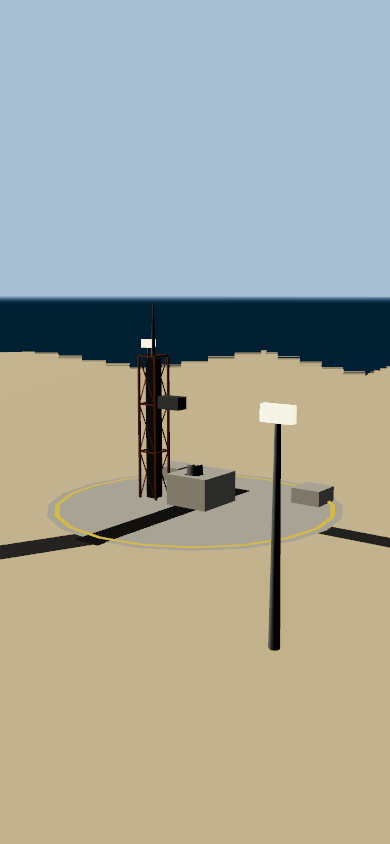
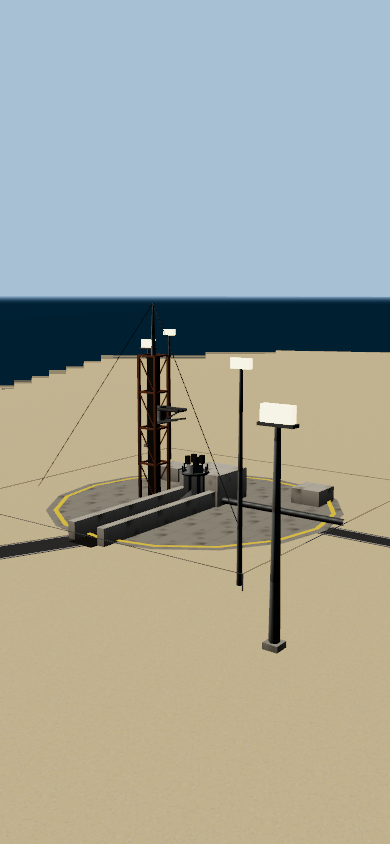
art-sites-1: detail pass (atoll)
Truss lattice towers with X-bracing and service decks, truss swing arms with hinge drums, lightning masts with catenary wires, flame trench walls and wedge deflector, deluge header ring and feed main; assembly buildings with ribbing and stacked door panels; tank farms with sphere legs and girth rings, pipe racks and spill bunds; roads with edge lines, dashed centre lines and light poles; perimeter fences; chopstick catch arms on the catch towers. PBR maps (concrete, steel grime, rust) plus baked vertex AO. Phone mid stays <= 8k tris / 40 meshes.

diff --git a/gfx/sites/kit.js b/gfx/sites/kit.js
@@ -4,29 +4,59 @@
 //      buildSiteLOD(S, { phone }) -> THREE.LOD (near = hi, or mid on phones; mid; lo)
 //      placeSite(obj, S) applies the site's body-frame matrix;  dispose / release free geometry (materials are shared).
 import * as THREE from 'three/webgpu';
-import { mergeGeometries, weakDisposeListeners, dispose, release } from '../vehicles/kit.js?v=art1';
+import { weakDisposeListeners, dispose, release } from '../vehicles/kit.js?v=art1';
 import { siteMatrix, localOffset, localBasis, BODY_R } from './geo.js?v=art1';
 export { dispose, release, BODY_R };
 export const LOD_DIST = { mid: 1500, lo: 6000 }; // metres from the camera
-const MATS = new Map(), S = THREE.MeshStandardMaterial;
-const MDEF = { concrete: [0xa8a49b, 0.95, 0], apron: [0x8e8b85, 0.9, 0], asphalt: [0x2c2d30, 0.92, 0], mark: [0xe8c22a, 0.6, 0], white: [0xf0efeb, 0.85, 0],
-  clad: [0xd9dadc, 0.7, 0.15], band: [0x5a6f86, 0.6, 0.2], door: [0x3a3d42, 0.7, 0.4], tower: [0x7d4a2e, 0.65, 0.5], steel: [0x8c9198, 0.45, 0.85],
-  tank: [0xeceae4, 0.4, 0.3], pipe: [0xb9bcc0, 0.4, 0.8], dark: [0x1e1f22, 0.7, 0.3], deck: [0x3b3e42, 0.85, 0.5], hull: [0x23272d, 0.6, 0.5],
-  lamp: [0xfff2c8, 0.4, 0, 0xffe7a0], ground: [0x6f7452, 1, 0], sand: [0xc9b68e, 1, 0], sea: [0x15394f, 0.2, 0], regolith: [0x8d8a84, 1, 0],
-  redsoil: [0x8f5a42, 1, 0], gold: [0xc9a043, 0.35, 1], solar: [0x1d2a4a, 0.3, 0.6], hab: [0xdedbd2, 0.6, 0.2], glass: [0x0c1218, 0.1, 0.3], green: [0x4d5a3a, 1, 0] };
-export function smat(k) { if (MATS.has(k)) return MATS.get(k); const d = MDEF[k] || [0xff00ff, 1, 0];
-  const m = new S({ color: d[0], roughness: d[1], metalness: d[2], ...(d[3] ? { emissive: d[3], emissiveIntensity: 2.2 } : {}) });
+const MATS = new Map(), TEX = new Map(), S = THREE.MeshStandardMaterial;
+// procedural PBR detail maps (canvas, cached, tiled in world space by SK.add's box-projected UVs, 8 m per tile)
+function rnd(seed) { let x = seed >>> 0 || 1; return () => ((x = (x * 1664525 + 1013904223) >>> 0) / 4294967296); }
+function canvasTex(key, draw, size = 256) { if (TEX.has(key)) return TEX.get(key); if (typeof document === 'undefined' && typeof OffscreenCanvas === 'undefined') return null;
+  const c = typeof OffscreenCanvas !== 'undefined' ? new OffscreenCanvas(size, size) : Object.assign(document.createElement('canvas'), { width: size, height: size }), g = c.getContext('2d'); draw(g, size, rnd(key.length * 977 + key.charCodeAt(0)));
+  const t = new THREE.CanvasTexture(c); t.wrapS = t.wrapT = THREE.RepeatWrapping; t.colorSpace = key.endsWith(':r') ? THREE.NoColorSpace : THREE.SRGBColorSpace; t.anisotropy = 4; t.userData.cached = true; TEX.set(key, t); return t; }
+const speckle = (g, n, r, a, lo, hi) => { for (let i = 0; i < 2600; i++) { const v = lo + (hi - lo) * a(); g.fillStyle = `rgba(${v},${v},${v},${0.08 + 0.12 * a()})`; g.fillRect(a() * n, a() * n, 1 + r * a(), 1 + r * a()); } };
+const TEXDEF = {
+  concrete: (g, n, a) => { g.fillStyle = '#b4b0a7'; g.fillRect(0, 0, n, n); speckle(g, n, 3, a, 90, 230); g.strokeStyle = 'rgba(60,58,54,0.55)'; g.lineWidth = 1.5; g.strokeRect(0, 0, n, n); g.beginPath(); g.moveTo(n / 2, 0); g.lineTo(n / 2, n); g.stroke(); // slab joints
+    for (let i = 0; i < 7; i++) { const x = a() * n, y = a() * n, r = 10 + 40 * a(), gr = g.createRadialGradient(x, y, 0, x, y, r); gr.addColorStop(0, 'rgba(70,64,55,0.28)'); gr.addColorStop(1, 'rgba(70,64,55,0)'); g.fillStyle = gr; g.fillRect(0, 0, n, n); } }, // stains
+  steel: (g, n, a) => { g.fillStyle = '#9aa0a7'; g.fillRect(0, 0, n, n); for (let y = 0; y < n; y++) { g.fillStyle = `rgba(255,255,255,${0.04 * a()})`; g.fillRect(0, y, n, 1); } speckle(g, n, 2, a, 60, 200);
+    const gr = g.createLinearGradient(0, n, 0, 0); gr.addColorStop(0, 'rgba(70,55,40,0.35)'); gr.addColorStop(0.35, 'rgba(70,55,40,0)'); g.fillStyle = gr; g.fillRect(0, 0, n, n); }, // grime from below
+  rust: (g, n, a) => { g.fillStyle = '#86502f'; g.fillRect(0, 0, n, n); speckle(g, n, 4, a, 40, 170); for (let i = 0; i < 40; i++) { g.fillStyle = `rgba(${120 + 60 * a()},${60 + 30 * a()},30,0.25)`; g.fillRect(a() * n, a() * n, 2 + 4 * a(), 8 + 40 * a()); } }, // rust streaks
+  clad: (g, n, a) => { g.fillStyle = '#d6d7d9'; g.fillRect(0, 0, n, n); for (let x = 0; x < n; x += 8) { g.fillStyle = 'rgba(0,0,0,0.10)'; g.fillRect(x, 0, 2, n); } speckle(g, n, 2, a, 120, 220);
+    const gr = g.createLinearGradient(0, n, 0, n * 0.6); gr.addColorStop(0, 'rgba(80,70,60,0.35)'); gr.addColorStop(1, 'rgba(80,70,60,0)'); g.fillStyle = gr; g.fillRect(0, 0, n, n); }, // ribbed siding + splash grime
+  asphalt: (g, n, a) => { g.fillStyle = '#313236'; g.fillRect(0, 0, n, n); speckle(g, n, 2, a, 20, 110); },
+  tank: (g, n, a) => { g.fillStyle = '#eceae4'; g.fillRect(0, 0, n, n); speckle(g, n, 2, a, 170, 255); for (let i = 0; i < 10; i++) { g.fillStyle = 'rgba(110,95,80,0.12)'; g.fillRect(a() * n, a() * n * 0.4 + n * 0.6, 3 + 6 * a(), 20 + 60 * a()); } },
+  ground: (g, n, a) => { g.fillStyle = '#6f7452'; g.fillRect(0, 0, n, n); speckle(g, n, 6, a, 50, 140); },
+  sand: (g, n, a) => { g.fillStyle = '#c9b68e'; g.fillRect(0, 0, n, n); speckle(g, n, 5, a, 120, 230); },
+  regolith: (g, n, a) => { g.fillStyle = '#8d8a84'; g.fillRect(0, 0, n, n); speckle(g, n, 5, a, 50, 190); for (let i = 0; i < 12; i++) { g.strokeStyle = 'rgba(40,40,40,0.25)'; g.beginPath(); g.arc(a() * n, a() * n, 3 + 14 * a(), 0, 7); g.stroke(); } }, // small craters
+  redsoil: (g, n, a) => { g.fillStyle = '#8f5a42'; g.fillRect(0, 0, n, n); speckle(g, n, 5, a, 50, 170); },
+};
+const MDEF = { concrete: [0xffffff, 0.95, 0, 'concrete'], apron: [0xc9c6c0, 0.9, 0, 'concrete'], asphalt: [0xffffff, 0.92, 0, 'asphalt'], mark: [0xe8c22a, 0.6, 0], white: [0xf2f1ed, 0.85, 0],
+  clad: [0xffffff, 0.7, 0.15, 'clad'], band: [0x5a6f86, 0.6, 0.2], door: [0xa9adb2, 0.55, 0.6, 'clad'], tower: [0xffffff, 0.75, 0.45, 'rust'], steel: [0xffffff, 0.45, 0.8, 'steel'],
+  tank: [0xffffff, 0.4, 0.3, 'tank'], pipe: [0xc4c7ca, 0.4, 0.8, 'steel'], dark: [0x2a2b2e, 0.85, 0.2, 'concrete'], deck: [0x4a4d52, 0.85, 0.5, 'steel'], hull: [0x2e333a, 0.6, 0.5, 'steel'],
+  lamp: [0xfff2c8, 0.4, 0, null, 0xffe7a0], ground: [0xffffff, 1, 0, 'ground'], sand: [0xffffff, 1, 0, 'sand'], sea: [0x15394f, 0.2, 0], regolith: [0xffffff, 1, 0, 'regolith'],
+  redsoil: [0xffffff, 1, 0, 'redsoil'], gold: [0xc9a043, 0.35, 1], solar: [0x1d2a4a, 0.3, 0.6], hab: [0xdedbd2, 0.6, 0.2, 'tank'], glass: [0x0c1218, 0.1, 0.3], green: [0x4d5a3a, 1, 0],
+  fence: [0x9da3a8, 0.5, 0.7], red: [0xb3241c, 0.5, 0.2], water: [0x2f6f8f, 0.15, 0] };
+export function smat(k) { if (MATS.has(k)) return MATS.get(k); const d = MDEF[k] || [0xff00ff, 1, 0], map = d[3] ? canvasTex(d[3], TEXDEF[d[3]]) : null;
+  const m = new S({ color: d[0], roughness: d[1], metalness: d[2], vertexColors: true, ...(map ? { map } : {}), ...(d[4] ? { emissive: d[4], emissiveIntensity: 2.2 } : {}) });
   if (k === 'mark') Object.assign(m, { polygonOffset: true, polygonOffsetFactor: -2, polygonOffsetUnits: -2 });
   m.name = 'site:' + k; m.userData.cached = true; weakDisposeListeners(m); MATS.set(k, m); return m; }
-export const SEG = { hi: 20, mid: 10, lo: 6 };
+// merge non-indexed geometries with position/normal/uv/color
+function mergeGeometries(gs) { const out = new THREE.BufferGeometry(); for (const [a, n] of [['position', 3], ['normal', 3], ['uv', 2], ['color', 3]]) { let len = 0; for (const g of gs) len += g.attributes[a].array.length;
+  const arr = new Float32Array(len); let o = 0; for (const g of gs) { arr.set(g.attributes[a].array, o); o += g.attributes[a].array.length; } out.setAttribute(a, new THREE.BufferAttribute(arr, n)); } return out; }
+export const SEG = { hi: 20, mid: 8, lo: 6 };
 const _q = new THREE.Quaternion(), _e = new THREE.Euler(), _v = new THREE.Vector3(), _s = new THREE.Vector3(), Y = new THREE.Vector3(0, 1, 0);
 const M = (p = [0, 0, 0], ry = 0, s = [1, 1, 1]) => { _e.set(0, ry, 0); return new THREE.Matrix4().compose(_v.set(...p), _q.setFromEuler(_e), _s.set(...s)); };
 // merge buffer: per material key; `tf` stack of placement matrices
-export class SK { constructor(detail) { this.detail = detail; this.seg = SEG[detail]; this.hi = detail === 'hi'; this.lo = detail === 'lo'; this.b = new Map(); this.T = [new THREE.Matrix4()]; }
+export class SK { constructor(detail) { this.detail = detail; this.seg = SEG[detail]; this.hi = detail === 'hi'; this.lo = detail === 'lo'; this.b = new Map(); this.T = [new THREE.Matrix4()]; this.base = 0; this.noAO = new Set(['mark', 'lamp', 'sea', 'ground', 'sand', 'regolith', 'redsoil', 'asphalt', 'water']); }
   push(m) { this.T.push(this.T.at(-1).clone().multiply(m)); return this; } pop() { this.T.pop(); return this; }
-  add(geo, k, m) { const g = geo.index ? geo.toNonIndexed() : geo; if (g !== geo) geo.dispose(); for (const a of Object.keys(g.attributes)) if (!['position', 'normal', 'uv'].includes(a)) g.deleteAttribute(a);
-    if (!g.attributes.uv) g.setAttribute('uv', new THREE.BufferAttribute(new Float32Array(g.attributes.position.count * 2), 2));
-    g.applyMatrix4(m ? this.T.at(-1).clone().multiply(m) : this.T.at(-1)); (this.b.get(k) || this.b.set(k, []).get(k)).push(g); return this; }
+  add(geo, k, m) { const g = geo.index ? geo.toNonIndexed() : geo; if (g !== geo) geo.dispose(); for (const a of Object.keys(g.attributes)) if (!['position', 'normal'].includes(a)) g.deleteAttribute(a);
+    g.applyMatrix4(m ? this.T.at(-1).clone().multiply(m) : this.T.at(-1)); const P = g.attributes.position.array, N = g.attributes.normal.array, c = P.length / 3, uv = new Float32Array(c * 2), col = new Float32Array(c * 3), T = 8;
+    for (let i = 0; i < c; i++) { const x = P[i * 3], y = P[i * 3 + 1], z = P[i * 3 + 2], nx = Math.abs(N[i * 3]), ny = N[i * 3 + 1], nz = Math.abs(N[i * 3 + 2]);
+      if (Math.abs(ny) >= nx && Math.abs(ny) >= nz) { uv[i * 2] = x / T; uv[i * 2 + 1] = z / T; } else if (nx >= nz) { uv[i * 2] = z / T; uv[i * 2 + 1] = y / T; } else { uv[i * 2] = x / T; uv[i * 2 + 1] = y / T; }
+      // baked AO: contact shadow near the ground (y local to the placed item), underside faces darker, slight sky term on tops
+      const h = y - this.base, ao = Math.min(1, (0.5 + 0.5 * Math.min(1, Math.max(0, h) / 4)) * (ny < -0.5 ? 0.6 : 1) * (ny > 0.5 ? 1.05 : 0.92));
+      col[i * 3] = col[i * 3 + 1] = col[i * 3 + 2] = this.noAO.has(k) ? 1 : ao; }
+    g.setAttribute('uv', new THREE.BufferAttribute(uv, 2)); g.setAttribute('color', new THREE.BufferAttribute(col, 3)); (this.b.get(k) || this.b.set(k, []).get(k)).push(g); return this; }
   box(k, w, h, d, p = [0, 0, 0], ry = 0) { return this.add(new THREE.BoxGeometry(w, h, d), k, M([p[0], p[1] + h / 2, p[2]], ry)); } // p = bottom centre
   cyl(k, r0, r1, h, p = [0, 0, 0], seg = this.seg, open = false) { return this.add(new THREE.CylinderGeometry(r1, r0, h, Math.max(3, seg), 1, open), k, M([p[0], p[1] + h / 2, p[2]])); }
   sph(k, r, p, seg = this.seg) { return this.add(new THREE.SphereGeometry(r, Math.max(4, seg), Math.max(3, seg >> 1)), k, M(p)); }
@@ -41,70 +71,113 @@ export class SK { constructor(detail) { this.detail = detail; this.seg = SEG[det
     grp.userData.tris = tris; return grp; } }
 
 // ---------- parts (all take the kit, a layout item o, placed at o.at = [x, z] with o.rot radians) ----------
-// lattice tower: square w x w, height h; hi = full lattice, mid = columns + bays, lo = solid box
+// truss lattice tower: square w x w, height h. hi = X-braced bays on every face (4 m), mid = single diagonals (8 m) + core, lo = solid box
 export function lattice(K, w, h, k = 'tower', p = [0, 0, 0]) { const [x, y, z] = p, c = w / 2;
   if (K.lo) return K.box(k, w, h, w, p);
-  const col = Math.max(0.4, w * 0.07), bay = K.hi ? 5 : 9, n = Math.max(1, Math.round(h / bay)), dy = h / n, P = [[-c, -c], [c, -c], [c, c], [-c, c]];
+  const col = Math.max(0.5, w * 0.07), bay = K.hi ? 4 : Math.max(8, h / 12), n = Math.max(1, Math.round(h / bay)), dy = h / n, P = [[-c, -c], [c, -c], [c, c], [-c, c]];
   for (const [a, b] of P) K.box(k, col, h, col, [x + a, y, z + b]);
   for (let i = 1; i <= n; i++) { const yy = y + i * dy; for (let j = 0; j < 4; j++) { const [a0, b0] = P[j], [a1, b1] = P[(j + 1) % 4];
-    K.beam(k, [x + a0, yy, z + b0], [x + a1, yy, z + b1], col * 0.7); K.beam(k, [x + a0, yy - dy, z + b0], [x + a1, yy, z + b1], col * 0.45); } }
-  if (!K.hi) K.box('dark', w * 0.55, h * 0.98, w * 0.55, p); // elevator core reads as a solid spine at mid
+    K.beam(k, [x + a0, yy, z + b0], [x + a1, yy, z + b1], col * 0.7); if (K.hi || j % 2 === 0) K.beam(k, [x + a0, yy - dy, z + b0], [x + a1, yy, z + b1], col * 0.4);
+    if (K.hi) K.beam(k, [x + a1, yy - dy, z + b1], [x + a0, yy, z + b0], col * 0.4); }
+    if (K.hi && i % 4 === 0) K.box('steel', w * 1.15, 0.4, w * 1.15, [x, yy, z]); } // service decks
+  K.box('dark', w * 0.45, h * 0.99, w * 0.45, p); // elevator / stair core
   return K; }
+// truss arm from a tower face along +x: two chords + zig-zag web, hinge drum at the root
+function trussArm(K, x0, y, z, len, d = 2.4, k = 'steel', dir = 1) { const t = 0.35;
+  if (K.lo) return K.box(k, len, d, d, [x0 + dir * len / 2, y - d / 2, z]);
+  for (const zz of [-d / 2, d / 2]) { K.beam(k, [x0, y, z + zz], [x0 + dir * len, y, z + zz], t); K.beam(k, [x0, y - d, z + zz], [x0 + dir * len * 0.95, y - d * 0.7, z + zz], t); }
+  const n = K.hi ? Math.max(2, Math.round(len / 2.5)) : Math.max(1, Math.round(len / 5)); for (let i = 0; i < n; i++) { const a = x0 + dir * len * i / n, b = x0 + dir * len * (i + 1) / n;
+    K.beam(k, [a, y - d * (1 - 0.3 * i / n), z], [b, y, z], t * 0.8); }
+  K.box('deck', len, 0.25, d, [x0 + dir * len / 2, y - d * 0.15, z]); K.cyl('steel', 0.9, 0.9, d + 0.8, [x0, y - d - 0.4, z], 8); return K; }
+function catenary(K, x, top, z, span) { if (K.lo) return; for (const s of [-1, 1]) K.beam('steel', [x, top, z], [x + s * span, 0, z + span * 0.3], 0.12); } // lightning-mast catenary wires
+function fence(K, pts, h = 2.4) { if (K.lo) return; for (let i = 1; i < pts.length; i++) { const [x0, z0] = pts[i - 1], [x1, z1] = pts[i], L = Math.hypot(x1 - x0, z1 - z0), n = Math.max(1, Math.round(L / (K.hi ? 12 : 48)));
+  for (let j = 0; j <= n; j++) K.box('fence', 0.15, h, 0.15, [x0 + (x1 - x0) * j / n, 0, z0 + (z1 - z0) * j / n]);
+  for (const hy of K.hi ? [0.3, h * 0.55, h] : [h]) K.beam('fence', [x0, hy, z0], [x1, hy, z1], 0.08); } }
+function rackPipe(K, x0, x1, z, y = 4, n = 3) { // pipe rack: portal frames every 10-20 m carrying n pipes
+  const L = Math.abs(x1 - x0), m = Math.max(1, Math.round(L / (K.hi ? 10 : 20)));
+  if (!K.lo) for (let i = 0; i <= m; i++) { const x = x0 + (x1 - x0) * i / m; K.box('steel', 0.4, y, 0.4, [x, 0, z - 1.6]); K.box('steel', 0.4, y, 0.4, [x, 0, z + 1.6]); K.box('steel', 0.4, 0.4, 3.6, [x, y - 0.2, z]); }
+  for (let j = 0; j < (K.lo ? 1 : n); j++) { const g = new THREE.CylinderGeometry(0.35, 0.35, L, K.hi ? 8 : 5, 1, true); g.rotateZ(Math.PI / 2); K.add(g, 'pipe', M([(x0 + x1) / 2, y + 0.4, z - 1 + j])); } }
 const parts = {
-  pad(K, o) { const r = o.r || 60; K.disc('concrete', r, [0, 0, 0], K.seg * 2, 0.05); K.ring('mark', r * 0.92, r * 0.95);
-    K.box('dark', o.trench || 12, 0.3, r * 1.6, [0, -0.2, r * 0.25]); // flame trench (dark slot in the hardstand)
-    K.box('concrete', (o.trench || 12) + 4, 6, 10, [0, 0, -2]); // deflector/mount plinth
-    const m = o.mount || 8; K.cyl('steel', m * 0.55, m * 0.5, 2, [0, 6, 0], K.seg, true);
-    if (!K.lo) for (let i = 0; i < 4; i++) { const a = i * Math.PI / 2 + Math.PI / 4; K.box('steel', 1.2, 6, 1.2, [Math.cos(a) * m * 0.45, 0, Math.sin(a) * m * 0.45]); }
-    if (o.tower) { const t = o.tower; lattice(K, t.w || 10, t.h, 'tower', [t.x ?? -(r * 0.4), 0, t.z ?? 0]);
-      K.cyl('steel', 0.4, 0.15, t.mast || 20, [t.x ?? -(r * 0.4), t.h, t.z ?? 0], 6); // lightning mast
-      for (const a of t.arms || []) K.box('steel', a.len, 2.4, 2.6, [(t.x ?? -(r * 0.4)) + (t.w || 10) / 2 + a.len / 2, a.y, t.z ?? 0]); } // service/crew arms toward the vehicle
-    if (o.hold !== false && !K.lo) for (const s of [-1, 1]) K.box('concrete', 6, 3, 6, [s * r * 0.6, 0, -r * 0.55]); }, // pad terminal rooms
-  catch(K, o) { const w = o.w || 12, h = o.h || 145; lattice(K, w, h, 'steel'); K.cyl('steel', 0.5, 0.15, 12, [0, h, 0], 6);
-    const ay = o.armY || h * 0.75, L = o.arm || 35; for (const s of [-1, 1]) { K.box('steel', 3, 4, L, [s * (w / 2 + 2), ay, w / 2 + L / 2]); if (!K.lo) K.box('dark', 1.2, 1.2, L * 0.9, [s * (w / 2 + 2), ay - 1.2, w / 2 + L / 2]); }
-    K.box('steel', w + 6, 8, 6, [0, ay - 2, w / 2 + 1]); // carriage
-    if (o.qd) K.box('steel', 2.5, 3, o.qd, [0, o.qdY || h * 0.6, w / 2 + o.qd / 2]); // ship quick-disconnect arm
-    const r = o.mountR || 12; K.cyl('concrete', r * 1.1, r, 18, [0, 0, w / 2 + L * 0.85], K.seg); K.cyl('steel', r * 0.75, r * 0.8, 1.5, [0, 18, w / 2 + L * 0.85], K.seg, true);
-    if (!K.lo) for (let i = 0; i < 6; i++) { const a = i / 6 * Math.PI * 2; K.box('concrete', 2.5, 18, 2.5, [Math.cos(a) * r * 1.1, 0, w / 2 + L * 0.85 + Math.sin(a) * r * 1.1]); } // mount legs
-    K.disc('concrete', o.r || 70, [0, 0, w / 2 + L * 0.5], K.seg * 2, 0.05); },
+  pad(K, o) { const r = o.r || 60, tw = o.trench || 12; K.disc('concrete', r, [0, 0, 0], K.seg * 2, 0.05); K.ring('mark', r * 0.92, r * 0.95);
+    // flame trench: sunken slot with side walls and a wedge deflector under the mount, exiting south
+    K.box('dark', tw, 0.3, r * 1.6, [0, -0.25, r * 0.3]); for (const s of [-1, 1]) K.box('concrete', 1.5, 3, r * 1.4, [s * (tw / 2 + 0.75), 0, r * 0.35]);
+    { const g = new THREE.CylinderGeometry(0.01, tw * 0.45, 7, 3, 1); g.rotateX(Math.PI / 2); g.rotateZ(Math.PI); K.add(g, 'steel', M([0, 1.5, 3])); }
+    K.box('concrete', tw + 4, 6, 10, [0, 0, -6]); const m = o.mount || 8; K.cyl('steel', m * 0.55, m * 0.5, 2, [0, 6, 0], K.seg, true); // mount ring on the plinth
+    for (let i = 0; i < 4; i++) { const a = i * Math.PI / 2 + Math.PI / 4; K.box('steel', 1.2, 6, 1.2, [Math.cos(a) * m * 0.45, 0, Math.sin(a) * m * 0.45]); if (!K.lo) K.box('dark', 0.8, 1.6, 0.8, [Math.cos(a) * m * 0.45, 8, Math.sin(a) * m * 0.45]); } // hold-down clamps
+    if (!K.lo) { // pad deluge: header ring with nozzle risers + feed main to the water tower side
+      K.add(new THREE.TorusGeometry(m * 0.85, 0.3, 4, K.hi ? 24 : 12).rotateX(Math.PI / 2), 'pipe', M([0, 6.4, 0]));
+      for (let i = 0; i < (K.hi ? 12 : 6); i++) { const a = i / (K.hi ? 12 : 6) * Math.PI * 2; K.cyl('pipe', 0.2, 0.2, 1.4, [Math.cos(a) * m * 0.85, 6.4, Math.sin(a) * m * 0.85], 4); }
+      const g = new THREE.CylinderGeometry(0.6, 0.6, r, 6, 1, true); g.rotateZ(Math.PI / 2); K.add(g, 'pipe', M([r / 2 + m * 0.6, 1, -m])); }
+    if (o.tower) { const t = o.tower, tx = t.x ?? -(r * 0.4), tz = t.z ?? 0, w = t.w || 10; lattice(K, w, t.h, 'tower', [tx, 0, tz]);
+      K.cyl('steel', 0.5, 0.15, t.mast || 20, [tx, t.h, tz], 6); catenary(K, tx, t.h + (t.mast || 20), tz, r * 0.9); // lightning mast + catenary
+      for (const a of t.arms || []) trussArm(K, tx + w / 2, a.y, tz, a.len, 2.6); }
+    if (!K.lo) for (const s of [-1, 1]) K.box('concrete', 6, 3, 6, [s * r * 0.6, 0, -r * 0.55]);
+    const f = r * 1.15; fence(K, [[-f, -f], [f, -f], [f, f], [-f, f], [-f, -f]]); // pad perimeter fence
+    if (!K.lo) for (const [x, z] of [[-f, -f], [f, -f], [f, f], [-f, f]]) { K.cyl('steel', 0.4, 0.25, 30, [x * 0.95, 0, z * 0.95], 6); K.box('lamp', 3, 1.4, 0.8, [x * 0.95, 30, z * 0.95]); } },
+  catch(K, o) { const w = o.w || 12, h = o.h || 145; lattice(K, w, h, 'steel'); K.cyl('steel', 0.5, 0.15, 12, [0, h, 0], 6); catenary(K, 0, h + 12, 0, 90);
+    const ay = o.armY || h * 0.75, L = o.arm || 35, zc = w / 2 + L * 0.85; K.box('steel', w + 6, 8, 6, [0, ay - 2, w / 2 + 1]); // carriage riding the tower
+    for (const s of [-1, 1]) { // chopsticks: tapered truss arms on pivots, with catch rails and bumper pads
+      const x = s * (w / 2 + 2.5); K.cyl('steel', 1.6, 1.6, 6, [x, ay - 3, w / 2 + 2], 10);
+      if (K.lo) { K.box('steel', 3, 4, L, [x, ay - 2, w / 2 + L / 2]); continue; }
+      for (const yy of [ay, ay - 4]) for (const xx of [x - 1.3, x + 1.3]) K.beam('steel', [xx, yy, w / 2 + 2], [xx * 0.98 + s * 0.4, yy + (yy === ay ? 0 : 2.5), w / 2 + 2 + L], 0.45);
+      const n = K.hi ? 10 : 3; for (let i = 0; i < n; i++) { const z0 = w / 2 + 2 + L * i / n, z1 = w / 2 + 2 + L * (i + 1) / n; K.beam('steel', [x, ay - 4 + 2.5 * i / n, z0], [x, ay, z1], 0.3); }
+      K.box('dark', 0.8, 1.0, L * 0.6, [x - s * 1.6, ay - 1.5, w / 2 + 2 + L * 0.35]); K.box('red', 1.2, 1.2, 1.6, [x - s * 1.8, ay - 1.2, zc]); }
+    if (o.qd) trussArm(K, 0, o.qdY || h * 0.6, w / 2, o.qd, 3, 'steel', 1); // ship arm (built along +x, then reads as a side arm)
+    const r = o.mountR || 12; K.cyl('concrete', r * 1.1, r, 18, [0, 0, zc], K.seg); K.cyl('steel', r * 0.75, r * 0.8, 1.5, [0, 18, zc], K.seg, true); if (!K.lo) K.cyl('dark', r * 0.6, r * 0.6, 0.4, [0, 18.2, zc], K.seg); // mount + flame opening
+    if (!K.lo) for (let i = 0; i < 6; i++) { const a = i / 6 * Math.PI * 2; K.box('concrete', 2.5, 18, 2.5, [Math.cos(a) * r * 1.15, 0, zc + Math.sin(a) * r * 1.15]); }
+    if (!K.lo) { K.add(new THREE.TorusGeometry(r * 0.8, 0.35, 4, K.hi ? 24 : 12).rotateX(Math.PI / 2), 'pipe', M([0, 19.6, zc])); K.disc('water', r * 0.3, [0, 0, zc], 12, 0.08); } // deluge ring
+    K.disc('concrete', o.r || 70, [0, 0, w / 2 + L * 0.5], K.seg * 2, 0.05); const f = (o.r || 70) * 1.05; fence(K, [[-f, -f + 20], [f, -f + 20], [f, f + 20], [-f, f + 20], [-f, -f + 20]]); },
   vab(K, o) { const w = o.w, d = o.d, h = o.h; K.box('clad', w, h, d);
     if (!K.lo) { const n = K.hi ? 6 : 3; for (let i = 0; i < n; i++) K.box('band', w + 0.4, 1.2, d + 0.4, [0, h * (i + 1) / (n + 1), 0]);
-      const nd = o.doors || 2; for (let i = 0; i < nd; i++) { const x = (i - (nd - 1) / 2) * w / nd; K.box('door', w / nd * 0.5, h * 0.85, 0.6, [x, 0, d / 2]); K.box('door', w / nd * 0.5, h * 0.85, 0.6, [x, 0, -d / 2]); }
-      K.box('clad', w * 0.6, h * 0.35, d * 0.5, [w * 0.8, 0, 0]); } // low bay
+      const rib = K.hi ? 10 : 20; for (let x = -w / 2; x <= w / 2 + 0.1; x += rib) for (const s of [-1, 1]) K.box('steel', 1.0, h, 1.0, [x, 0, s * (d / 2 + 0.5)]); // vertical ribbing (pilasters)
+      for (let z = -d / 2; z <= d / 2 + 0.1; z += rib) for (const s of [-1, 1]) K.box('steel', 1.0, h, 1.0, [s * (w / 2 + 0.5), 0, z]);
+      const nd = o.doors || 2, rows = K.hi ? 7 : 4; for (let i = 0; i < nd; i++) { const x = (i - (nd - 1) / 2) * w / nd, dw = w / nd * 0.5, dh = h * 0.85;
+        for (const s of [-1, 1]) { K.box('dark', dw + 2, dh + 1, 0.3, [x, 0, s * (d / 2 + 0.2)]); for (let r = 0; r < rows; r++) K.box('door', dw, dh / rows - 0.6, 0.7, [x, r * dh / rows, s * (d / 2 + 0.4)]); } } // stacked leaf door panels
+      K.box('clad', w * 0.6, h * 0.35, d * 0.5, [w * 0.8, 0, 0]); for (let i = 0; i < (K.hi ? 6 : 3); i++) K.box('dark', 4, 3, 3, [w * 0.8 - w * 0.2 + i * w * 0.08, h * 0.35, 0]); } // low bay + roof units
     K.box('dark', w + 1, 0.8, d + 1, [0, h, 0]); },
   hangar(K, o) { const w = o.w || 60, d = o.d || 90, h = o.h || 22; K.box('clad', w, h * 0.6, d);
     const g = new THREE.CylinderGeometry(w / 2, w / 2, d, Math.max(4, K.seg), 1, false, -Math.PI / 2, Math.PI); g.rotateX(-Math.PI / 2); g.scale(1, (h * 0.4) / (w / 2), 1); K.add(g, 'white', M([0, h * 0.6, 0]));
-    if (!K.lo) K.box('door', w * 0.8, h * 0.55, 0.6, [0, 0, d / 2]); },
+    if (!K.lo) { const nl = K.hi ? 6 : 3; for (let i = 0; i < nl; i++) K.box('door', w * 0.8 / nl - 0.4, h * 0.55, 0.6, [-w * 0.4 + (i + 0.5) * w * 0.8 / nl, 0, d / 2]); K.box('steel', w * 0.85, 0.8, 1.2, [0, h * 0.55, d / 2 + 0.3]); // door leaves + track
+      for (let z = -d / 2; z <= d / 2; z += K.hi ? 10 : 30) for (const s of [-1, 1]) K.box('steel', 0.8, h * 0.6, 0.8, [s * (w / 2 + 0.4), 0, z]); } },
   tanks(K, o) { const n = o.n || 3, r = o.r || 8, gap = r * 2.6;
-    for (let i = 0; i < n; i++) { const x = (i - (n - 1) / 2) * gap; if (o.style === 'h') { const g = new THREE.CylinderGeometry(r, r, r * 5, Math.max(4, K.seg)); g.rotateX(Math.PI / 2); K.add(g, 'tank', M([x, r + 1.5, 0])); if (!K.lo) { K.box('concrete', r * 1.6, 1.5, 1.5, [x, 0, -r * 1.8]); K.box('concrete', r * 1.6, 1.5, 1.5, [x, 0, r * 1.8]); } }
-      else if (o.style === 'v') { K.cyl('tank', r, r, o.h || r * 4, [x, 0, 0]); K.cyl('tank', r, r * 0.6, r * 0.5, [x, o.h || r * 4, 0]); }
-      else { K.sph('tank', r, [x, r * 1.25, 0]); if (!K.lo) for (let j = 0; j < 4; j++) { const a = j * Math.PI / 2 + Math.PI / 4; K.box('steel', 0.8, r * 0.9, 0.8, [x + Math.cos(a) * r * 0.7, 0, Math.sin(a) * r * 0.7]); } } }
-    if (!K.lo) { K.box('pipe', n * gap, 1.2, 1.2, [0, 1.5, r * 1.6]); K.flat('apron', n * gap + r, r * 4.5, [0, 0, 0]); } },
-  road(K, o) { const w = o.w || 10, P = o.pts; for (let i = 1; i < P.length; i++) { const [x0, z0] = P[i - 1], [x1, z1] = P[i], L = Math.hypot(x1 - x0, z1 - z0);
-      K.flat('asphalt', w, L + w * 0.5, [(x0 + x1) / 2, 0, (z0 + z1) / 2], Math.atan2(x1 - x0, z1 - z0), 0.025); if (o.line && !K.lo) K.flat('mark', 0.3, L, [(x0 + x1) / 2, 0, (z0 + z1) / 2], Math.atan2(x1 - x0, z1 - z0), 0.035); } },
-  masts(K, o) { for (const [x, z] of o.pts) { const h = o.h || 40; K.cyl('steel', 0.7, 0.35, h, [x, 0, z], 6); K.box('lamp', 4, 2, 1, [x, h, z]); if (K.hi) K.box('steel', 4.6, 0.4, 1.4, [x, h - 0.4, z]); } },
-  water(K, o) { const h = o.h || 60, r = o.r || 9; if (!K.lo) for (let i = 0; i < 4; i++) { const a = i * Math.PI / 2 + Math.PI / 4; K.beam('steel', [Math.cos(a) * r * 0.9, 0, Math.sin(a) * r * 0.9], [Math.cos(a) * r * 0.35, h, Math.sin(a) * r * 0.35], 0.9); }
-    K.cyl('steel', 1.2, 1.2, h, [0, 0, 0], 6); K.sph('white', r, [0, h + r * 0.6, 0]); },
+    for (let i = 0; i < n; i++) { const x = (i - (n - 1) / 2) * gap; if (o.style === 'h') { const g = new THREE.CylinderGeometry(r, r, r * 5, Math.max(4, K.seg)); g.rotateX(Math.PI / 2); K.add(g, 'tank', M([x, r + 1.5, 0])); if (!K.lo) { K.sph('tank', r, [x, r + 1.5, -r * 2.5], Math.max(4, K.seg >> 1)); K.sph('tank', r, [x, r + 1.5, r * 2.5], Math.max(4, K.seg >> 1)); K.box('concrete', r * 1.6, 1.5, 1.5, [x, 0, -r * 1.8]); K.box('concrete', r * 1.6, 1.5, 1.5, [x, 0, r * 1.8]); } }
+      else if (o.style === 'v') { K.cyl('tank', r, r, o.h || r * 4, [x, 0, 0]); K.cyl('tank', r, r * 0.6, r * 0.5, [x, o.h || r * 4, 0]); if (!K.lo) { K.cyl('concrete', r * 1.15, r * 1.15, 1, [x, 0, 0], K.seg); K.box('steel', 0.5, o.h || r * 4, 0.5, [x + r + 0.6, 0, 0]); } } // plinth + ladder
+      else { K.sph('tank', r, [x, r * 1.25, 0]); if (!K.lo) { for (let j = 0; j < (K.hi ? 8 : 4); j++) { const a = j * Math.PI * 2 / (K.hi ? 8 : 4) + Math.PI / 4; K.box('steel', 0.8, r * 1.1, 0.8, [x + Math.cos(a) * r * 0.75, 0, Math.sin(a) * r * 0.75]); }
+        K.add(new THREE.TorusGeometry(r * 0.78, 0.25, 3, K.hi ? 20 : 10).rotateX(Math.PI / 2), 'steel', M([x, r * 1.1, 0])); K.cyl('pipe', 0.5, 0.5, r * 1.25, [x, 0, r * 1.05], 6); } } } // legs, girth ring, drop leg
+    rackPipe(K, -n * gap / 2 - r, n * gap / 2 + r, r * 1.9, 4, 3); if (!K.lo) { K.flat('apron', n * gap + r * 2, r * 5.5, [0, 0, 0]); for (const s of [-1, 1]) K.box('concrete', n * gap + r * 2, 1, 0.6, [0, 0, s * r * 2.75]); } }, // apron + spill bund
+  road(K, o) { const w = o.w || 10, P = o.pts; for (let i = 1; i < P.length; i++) { const [x0, z0] = P[i - 1], [x1, z1] = P[i], L = Math.hypot(x1 - x0, z1 - z0), ry = Math.atan2(x1 - x0, z1 - z0), cx = (x0 + x1) / 2, cz = (z0 + z1) / 2;
+      K.flat('asphalt', w, L + w * 0.5, [cx, 0, cz], ry, 0.025); if (K.lo) continue; const ux = (x1 - x0) / L, uz = (z1 - z0) / L;
+      for (const s of [-1, 1]) K.flat('white', 0.25, L, [cx + uz * s * (w / 2 - 0.5), 0, cz - ux * s * (w / 2 - 0.5)], ry, 0.035); // edge lines
+      if (o.line && K.hi) { const dash = K.hi ? 12 : 24, nd = Math.floor(L / dash); for (let j = 0; j < nd; j++) { const t = (j + 0.5) * dash - L / 2; K.flat('mark', 0.3, dash * 0.5, [cx + ux * t, 0, cz + uz * t], ry, 0.04); } } // dashed centre line
+      if (o.poles !== false) { const sp = K.hi ? 60 : 300, np = Math.floor(L / sp); for (let j = 1; j <= np; j++) { const t = j * sp - L / 2, px = cx + ux * t + uz * (w / 2 + 2), pz = cz + uz * t - ux * (w / 2 + 2);
+        K.cyl('steel', 0.18, 0.12, 9, [px, 0, pz], 4); K.box('lamp', 0.5, 0.25, 1.4, [px - uz * 0.8, 9, pz + ux * 0.8]); } } } }, // light poles
+  masts(K, o) { for (const [x, z] of o.pts) { const h = o.h || 40; K.cyl('steel', 0.7, 0.35, h, [x, 0, z], 6); K.box('lamp', 4, 2, 1, [x, h, z]); if (!K.lo) { K.box('steel', 4.6, 0.4, 1.4, [x, h - 0.4, z]); K.box('concrete', 2, 0.8, 2, [x, 0, z]); } if (K.hi) K.box('lamp', 4, 1.2, 1, [x, h - 2, z]); } },
+  water(K, o) { const h = o.h || 60, r = o.r || 9; if (!K.lo) { for (let i = 0; i < 4; i++) { const a = i * Math.PI / 2 + Math.PI / 4; K.beam('steel', [Math.cos(a) * r * 0.9, 0, Math.sin(a) * r * 0.9], [Math.cos(a) * r * 0.35, h, Math.sin(a) * r * 0.35], 0.9); }
+      for (let j = 1; j < (K.hi ? 4 : 2) + 1; j++) { const t = j / ((K.hi ? 4 : 2) + 1), rr = r * (0.9 - 0.55 * t); K.add(new THREE.TorusGeometry(rr, 0.2, 3, 8).rotateX(Math.PI / 2), 'steel', M([0, h * t, 0])); } } // tension rings
+    K.cyl('pipe', 1.2, 1.2, h, [0, 0, 0], 6); K.sph('white', r, [0, h + r * 0.6, 0]); if (!K.lo) { K.add(new THREE.TorusGeometry(r * 0.95, 0.3, 3, K.hi ? 20 : 10).rotateX(Math.PI / 2), 'steel', M([0, h + r * 0.6, 0])); K.cyl('pipe', 0.8, 0.8, 30, [0, 0, 0], 6); } },
   lz(K, o) { const r = o.r || 45; K.disc('concrete', r); K.ring('mark', r * 0.8, r * 0.86); const t = r * 0.06; K.flat('mark', t * 2, r * 1.2, [0, 0, 0], Math.PI / 4, 0.045); K.flat('mark', t * 2, r * 1.2, [0, 0, 0], -Math.PI / 4, 0.045);
-    if (!K.lo) K.disc('apron', r * 1.35, [0, 0, 0], K.seg * 2, 0.01); },
+    if (!K.lo) { K.disc('apron', r * 1.35, [0, 0, 0], K.seg * 2, 0.01); for (let i = 0; i < (K.hi ? 16 : 8); i++) { const a = i / (K.hi ? 16 : 8) * Math.PI * 2; K.box('lamp', 0.6, 0.3, 0.6, [Math.cos(a) * r * 1.02, 0, Math.sin(a) * r * 1.02]); } } }, // edge lights
   droneship(K, o) { const L = 92, W = 52; K.box('hull', W, 6, L, [0, -4, 0]); K.box('deck', W - 2, 0.4, L - 2, [0, 2, 0]); K.disc('sea', 900, [0, 0, 0], K.seg * 2, -0.2);
     K.ring('mark', 13, 14.5, [0, 2.4, 0]); K.flat('mark', 2.2, 24, [0, 2.4, 0], Math.PI / 4, 0.05); K.flat('mark', 2.2, 24, [0, 2.4, 0], -Math.PI / 4, 0.05);
-    for (const s of [-1, 1]) { K.box('hull', 1.2, 3, L - 4, [s * (W / 2 - 0.6), 2, 0]); if (!K.lo) { K.box('tank', 6, 5, 8, [s * (W / 2 - 4), 2, -L / 2 + 6]); K.box('tank', 6, 5, 8, [s * (W / 2 - 4), 2, L / 2 - 6]); K.cyl('dark', 2.2, 2.2, 3, [s * (W / 2 - 4), -7, -L / 2 + 6], K.seg); K.cyl('dark', 2.2, 2.2, 3, [s * (W / 2 - 4), -7, L / 2 - 6], K.seg); } }
+    for (const s of [-1, 1]) { K.box('hull', 1.2, 3, L - 4, [s * (W / 2 - 0.6), 2, 0]); if (!K.lo) { K.box('tank', 6, 5, 8, [s * (W / 2 - 4), 2, -L / 2 + 6]); K.box('tank', 6, 5, 8, [s * (W / 2 - 4), 2, L / 2 - 6]); K.cyl('dark', 2.2, 2.2, 3, [s * (W / 2 - 4), -7, -L / 2 + 6], K.seg); K.cyl('dark', 2.2, 2.2, 3, [s * (W / 2 - 4), -7, L / 2 - 6], K.seg);
+      fence(K, [[s * (W / 2 - 0.3), -L / 2 + 12], [s * (W / 2 - 0.3), L / 2 - 12]], 1.2); } }
     if (K.hi) K.box('steel', W - 6, 0.6, 1, [0, 2.4, -L / 2 + 2]); },
-  block(K, o) { K.box(o.mat || 'concrete', o.w || 20, o.h || 6, o.d || 14); if (o.roof && !K.lo) K.box('dark', (o.w || 20) * 0.3, 2, (o.d || 14) * 0.3, [0, o.h || 6, 0]); },
+  block(K, o) { const w = o.w || 20, h = o.h || 6, d = o.d || 14; K.box(o.mat || 'concrete', w, h, d); if (!K.lo) { K.box('dark', w + 0.6, 0.6, d + 0.6, [0, h, 0]); K.box('glass', w * 0.7, 1.2, 0.2, [0, h * 0.5, d / 2]); }
+    if (o.roof && !K.lo) { K.box('dark', w * 0.3, 2, d * 0.3, [0, h, 0]); K.cyl('steel', 0.15, 0.1, 12, [w * 0.4, h, 0], 4); } },
   stand(K, o) { const h = o.h || 30; lattice(K, 8, h, 'steel'); K.box('concrete', 16, 4, 16); K.box('steel', 12, 1.5, 12, [0, h, 0]); }, // static-fire stand
-  hab(K, o) { const n = o.n || 3, r = o.r || 4; for (let i = 0; i < n; i++) { const g = new THREE.CylinderGeometry(r, r, r * 3, Math.max(4, K.seg)); g.rotateZ(Math.PI / 2); K.add(g, 'hab', M([0, r + 0.6, i * r * 2.4], 0)); if (!K.lo) K.sph('hab', r * 0.96, [r * 1.5, r + 0.6, i * r * 2.4], Math.max(4, K.seg >> 1)); }
+  hab(K, o) { const n = o.n || 3, r = o.r || 4; for (let i = 0; i < n; i++) { const g = new THREE.CylinderGeometry(r, r, r * 3, Math.max(4, K.seg)); g.rotateZ(Math.PI / 2); K.add(g, 'hab', M([0, r + 0.6, i * r * 2.4], 0)); if (!K.lo) { K.sph('hab', r * 0.96, [r * 1.5, r + 0.6, i * r * 2.4], Math.max(4, K.seg >> 1)); K.box('steel', r * 3.2, 0.6, r * 1.4, [0, 0, i * r * 2.4]); } }
     if (!K.lo) K.box('regolith', r * 5, r * 0.8, n * r * 2.4 + r * 2, [0, 0, (n - 1) * r * 1.2 - r * 3.2]); },
   solar(K, o) { const n = o.n || 4; for (let i = 0; i < n; i++) { const x = (i - (n - 1) / 2) * 12; if (!K.lo) K.cyl('steel', 0.2, 0.2, 2.5, [x, 0, 0], 4); const g = new THREE.BoxGeometry(10, 0.15, 5); g.rotateX(-0.5); K.add(g, 'solar', M([x, 2.8, 0])); } },
   berm(K, o) { const r = o.r || 40; K.add(new THREE.TorusGeometry(r, o.t || 2.5, 4, Math.max(8, K.seg * 2)).rotateX(Math.PI / 2), o.mat || 'regolith', M([0, 0.4, 0])); },
   dish(K, o) { const r = o.r || 5; K.cyl('steel', 0.4, 0.4, o.h || 6, [0, 0, 0], 6); const g = new THREE.SphereGeometry(r, Math.max(4, K.seg), 3, 0, Math.PI * 2, 0, 0.7); g.rotateX(-0.9); K.add(g, 'white', M([0, (o.h || 6) + 1, 0])); },
+  fence(K, o) { fence(K, o.pts, o.h || 2.4); },
   ground(K, o) { K.disc(o.mat || 'ground', o.r || 2500, [0, 0, 0], K.seg * 3, -0.05); if (o.sea) K.flat('sea', o.sea.w || 12000, o.sea.d || 12000, [o.sea.x || 0, 0, o.sea.z || 0], 0, -0.1); },
 };
 export const PART_KINDS = Object.keys(parts);
 // build one placed group (the main complex, or a remote station such as a droneship)
 function buildGroup(S, items, detail, name, opts) { const K = new SK(detail);
   for (const o of items) { if (o.k === 'ground' && !opts.ground) continue; if (o.min && ['lo', 'mid', 'hi'].indexOf(detail) < ['lo', 'mid', 'hi'].indexOf(o.min)) continue;
-    const [x, z] = o.at || [0, 0]; K.push(M([x, o.y || 0, z], o.rot || 0)); parts[o.k](K, o); K.pop(); }
+    const [x, z] = o.at || [0, 0]; K.base = o.y || 0; K.push(M([x, o.y || 0, z], o.rot || 0)); parts[o.k](K, o); K.pop(); }
   return K.build(name); }
 export function buildSite(S, { detail = 'hi', ground = false } = {}) { const g = new THREE.Group(); g.name = 'site:' + S.id;
   const main = buildGroup(S, S.layout, detail, S.id, { ground }); g.add(main); let tris = main.userData.tris;

diff --git a/gfx/sites/README.md b/gfx/sites/README.md
@@ -7,7 +7,7 @@ Original, logo-free launch complexes for every launch site in `fun/ladder.js` AL
   placed exactly at their own lat/lon on the sphere.
 - `kit.js`: `buildSite(S, { detail, ground })`, `buildSiteLOD(S, { phone })` (near hi, or mid on phones; mid at 1.5 km; lo at 6 km),
   `placeSite(obj, S, R?)` (body-frame matrix from `geo.js`), `disposeSite(obj)`. One merged mesh per material per group, shared
-  cached materials, no instanced meshes.
+  cached PBR materials (procedural concrete, steel grime and rust maps tiled in world space, baked vertex AO), no instanced meshes.
 - `geo.js`: Earth sites use `gfx/earthmap.js` latLonToGame (the heritage pad is Earth-fixed +x); Moon/Mars use their plain body-fixed frame.
 - Landing zones and droneship stations exist only at the reusable-booster sites (Rocketwell: cape-north, lz1, cape-heritage, gulf-port).
 - `viewer.html?id=<id>&view=hero|top|phone` renders the hero shots in `screens/sites_<id>_*.png`; `budget.html` feeds tests/vehicles_budget.cjs.
